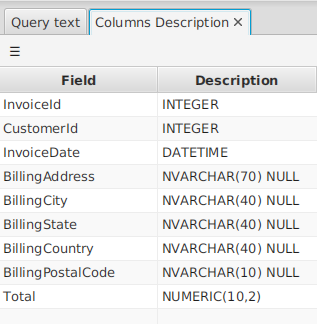
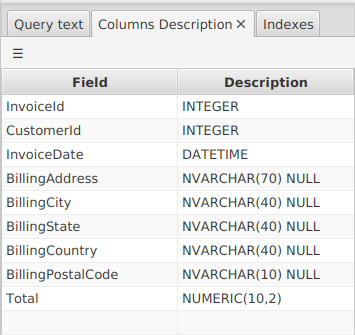
documentation updates

diff --git a/docs/Order-By.md b/docs/Order-By.md
@@ -24,13 +24,13 @@ If instead you need to sort the table using multiple columns or in descending or
 ![order by dialog](images/orderbydialog.png)
 
 The dialog contains a list of order by columns, in the order in which they get applied in the final order by clause.
-To add a new column, choose column/field name and direction (ASC for ascending, DESC for descending) and press the **Add** button. 
+Eech line contains the name of the column and the direction (arrow up for ascending, arrow down for descending).
 
-To replace the values of a row in the list select the row, choose column/field name and direction and press the **Update** button. 
+To add a new column choose it from the combo box in the bottom, with the desired direction, and press the **Add** button. 
 
-To move a row up or down in the list, select the row and press **Move up** or **Move down**. 
+To move a row up or down in the list, click the **arrow-up** or **arrow-down** button in the row you want to move.  
 
-To remove a row from the list, select the row and press **Delete**.
+To remove a row from the list, click the **X** button in the row you want to remove.
 
 To apply the order by columns to the current tab press the **Save** button. 
 The **Cancel** button closes the dialog without generating a new tab.

diff --git a/docs/TableInformation.md b/docs/TableInformation.md
@@ -11,7 +11,7 @@ categories: [GUI]
 
 When you open a table tab, DBTarzan shows the content of the table, and on the right a panel with the  [foreign keys](ForeignKeys) of that table.
 Under the foreign keys table there is another panel, showing **additional table information**.
-This panel is divided in two tabs:
+This panel is divided in the following tabs:
   
 ### Table Query
 
@@ -30,3 +30,14 @@ This can be used for example to write a program that reads the content of the ta
 you need to know for example if the fields are texts of numbers, if they are nullable.
 
 The **copy content to clipboard menu** copies the whole table structure (fields names and types) to the clipboard, in a tabular format.
+
+### Table Indexes
+
+![Table fields](images/tableIndexes.png)
+
+Shows a list of the indexes of a table.
+Eech index is displayed with:
+* its **name**
+* a list of the **fields** included in the index, each with its **direction** in the index (ascending, descending)
+
+Other informations, for example the fields' types, can be found in the **table fields**.
